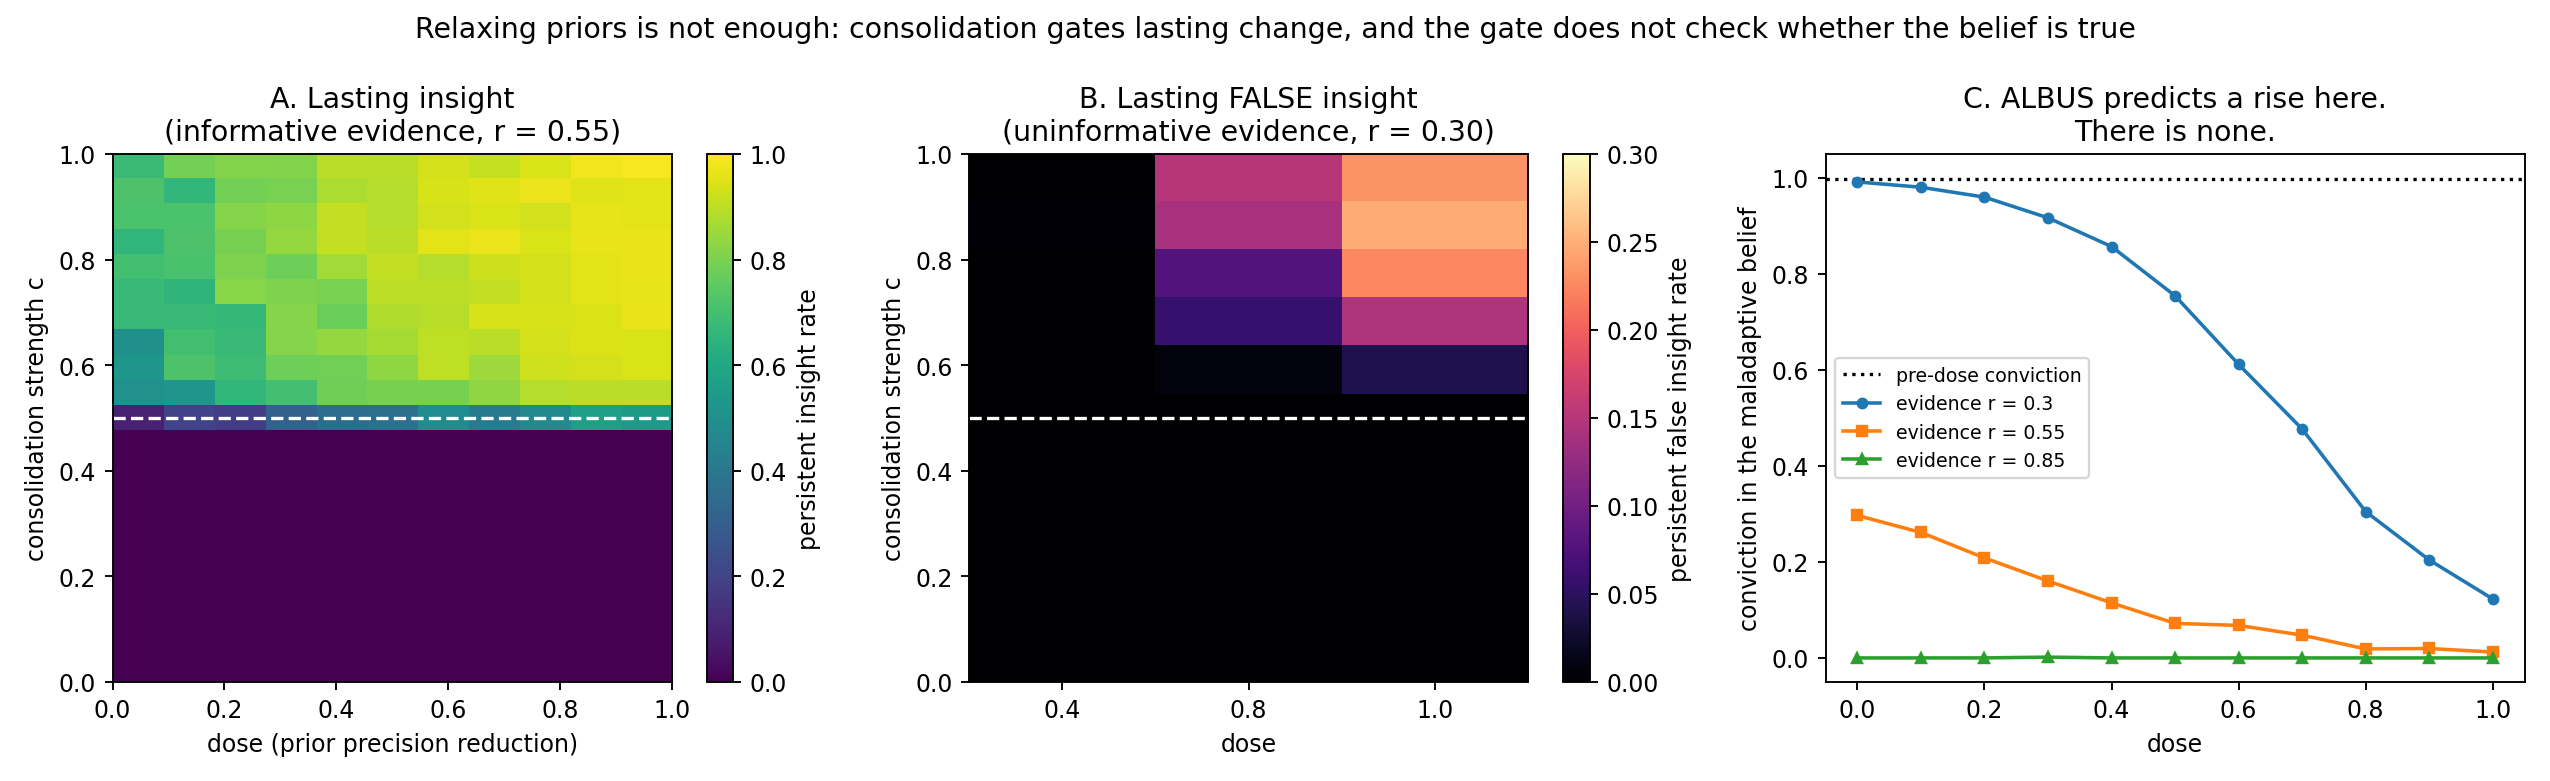
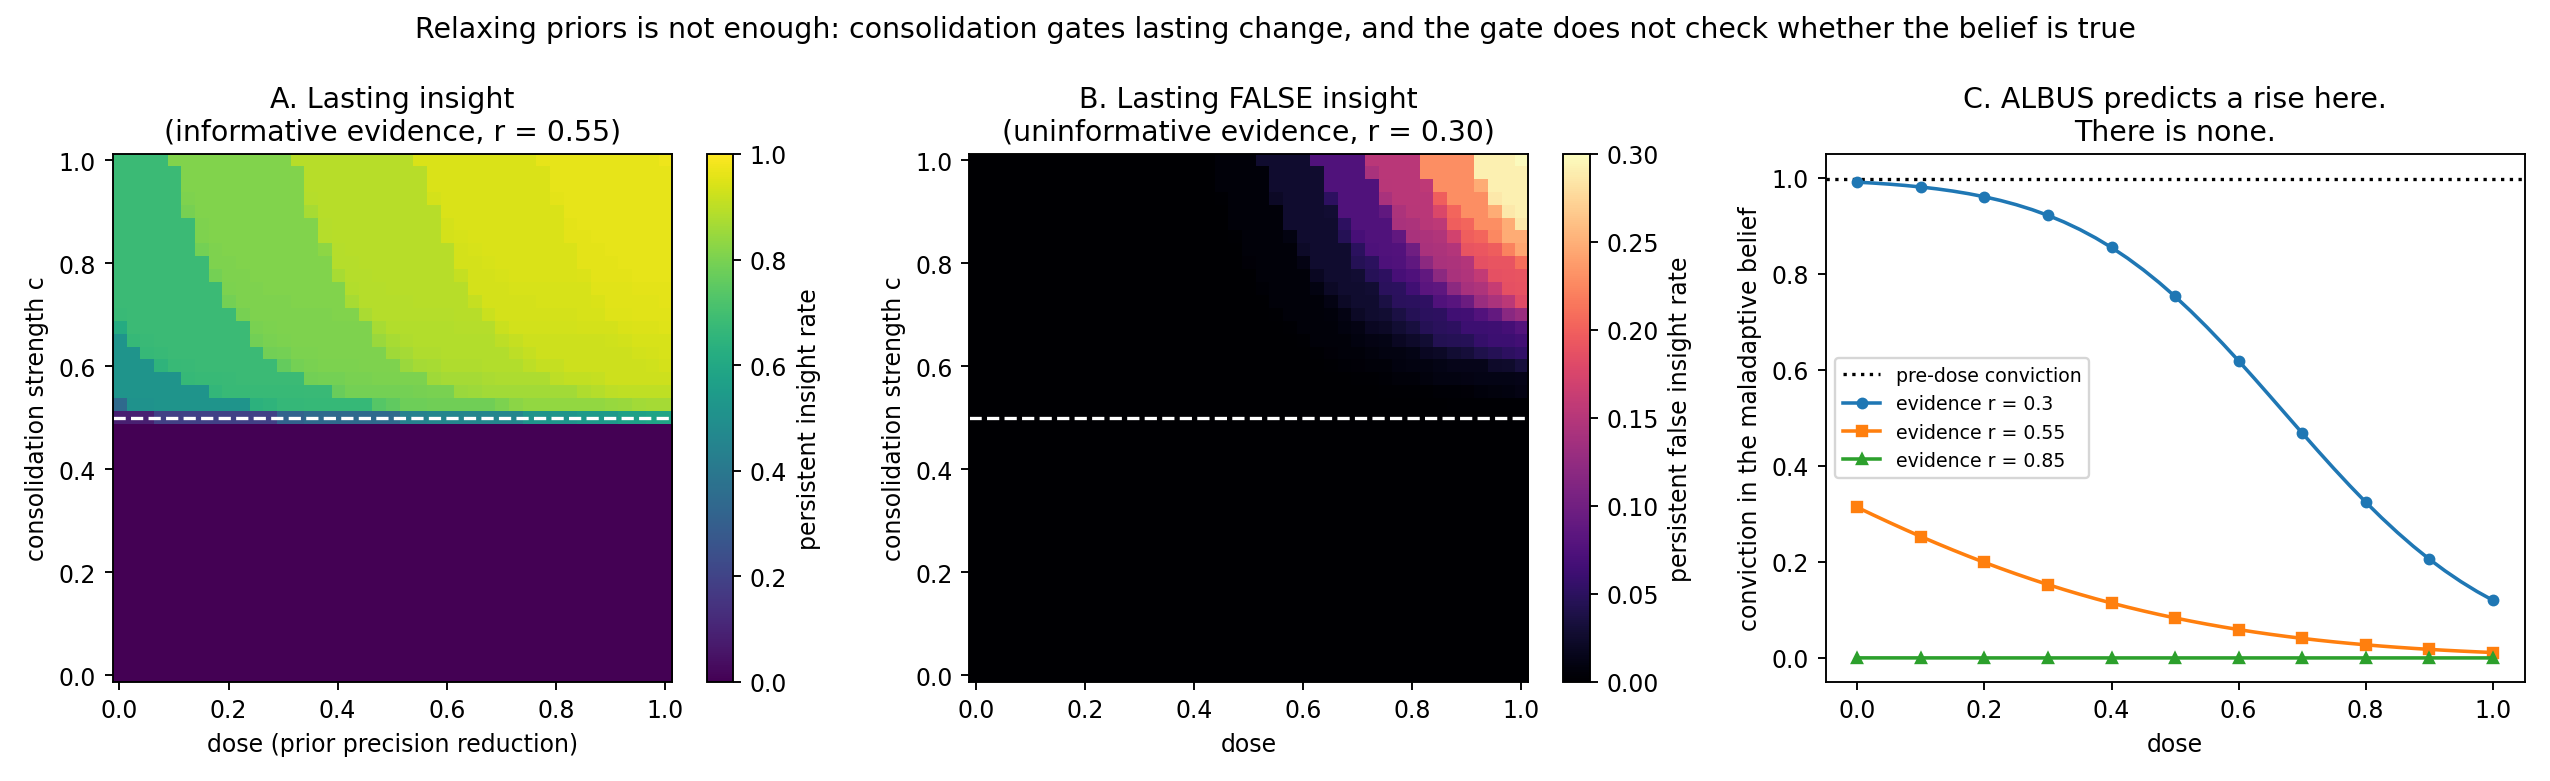
Fix figure_main: dense 41x41 recompute so panel B gets a true continuous dose axis; cell-center extents

diff --git a/dense_grids.py b/dense_grids.py
@@ -1,0 +1,104 @@
+"""Dense recompute of the figure_main panels. No new hypotheses, no new arms.
+
+This recomputes three quantities already declared and reported (predictions 6, 8, 3;
+see AMENDMENT_1.md and PREREGISTRATION.md) on a finer grid with more trials, so the
+poster figure can use a genuinely continuous dose axis instead of three categorical
+columns. The mechanism, mapping, and outcome definitions are byte-identical to
+consolidation.py; only resolution changes. Spot checks against the published coarse
+numbers are printed at the end and must agree within Monte Carlo error.
+
+Observation draws are shared across dose and consolidation within each block, so
+contrasts are paired, matching the design of robustness.py.
+"""
+
+import json
+import pathlib
+
+import numpy as np
+
+from model import GAMMA_0, K, MALADAPTIVE, TRUE, likelihood, prior_logits, softmax
+
+OUT = pathlib.Path(__file__).parent / "dense_grids.json"
+
+WINDOW = 12
+TRIALS = 20000
+DOSES = np.round(np.linspace(0, 1, 41), 4)
+CS = np.round(np.linspace(0, 1, 41), 4)
+
+
+def draw_counts(r, trials, rng):
+    """Multinomial observation counts per trial. cum_ll = counts @ log A."""
+    a = likelihood(r)
+    counts = rng.multinomial(WINDOW, a[:, TRUE], size=trials)
+    return counts @ np.log(a)
+
+
+def outcome_grid(cum_ll, which):
+    """Rate of `which` outcome after consolidation, over the dose x c grid."""
+    u = prior_logits()
+    p_orig = softmax(GAMMA_0 * u)
+    out = np.zeros((len(CS), len(DOSES)))
+    for j, d in enumerate(DOSES):
+        gamma_d = GAMMA_0 * (1.0 - d)
+        logits = gamma_d * u[None, :] + cum_ll
+        logits -= logits.max(axis=1, keepdims=True)
+        bw = np.exp(logits)
+        bw /= bw.sum(axis=1, keepdims=True)
+        for i, c in enumerate(CS):
+            p_after = (1.0 - c) * p_orig[None, :] + c * bw
+            m = p_after.argmax(axis=1)
+            if which == "insight":
+                out[i, j] = (m == TRUE).mean()
+            else:
+                out[i, j] = (m >= 2).mean()
+    return out
+
+
+def sebus_curves(rng):
+    """Mean conviction in the maladaptive belief at window end, per dose."""
+    u = prior_logits()
+    curves = {}
+    for r in (0.30, 0.55, 0.85):
+        cum_ll = draw_counts(r, TRIALS, rng)
+        ys = []
+        for d in DOSES:
+            gamma_d = GAMMA_0 * (1.0 - d)
+            logits = gamma_d * u[None, :] + cum_ll
+            logits -= logits.max(axis=1, keepdims=True)
+            bw = np.exp(logits)
+            bw /= bw.sum(axis=1, keepdims=True)
+            ys.append(float(bw[:, MALADAPTIVE].mean()))
+        curves[f"{r}"] = ys
+    return curves
+
+
+def main():
+    rng = np.random.default_rng(11)
+
+    insight = outcome_grid(draw_counts(0.55, TRIALS, rng), "insight")
+    false_g = outcome_grid(draw_counts(0.30, TRIALS, rng), "false_insight")
+    seb = sebus_curves(rng)
+    base = float(softmax(GAMMA_0 * prior_logits())[MALADAPTIVE])
+
+    OUT.write_text(json.dumps({
+        "doses": DOSES.tolist(), "cs": CS.tolist(), "trials": TRIALS,
+        "insight_r055": insight.tolist(),
+        "false_insight_r030": false_g.tolist(),
+        "sebus": {"baseline": base, "curves": seb},
+    }))
+    print(f"wrote {OUT.name}")
+
+    # Spot checks against published coarse numbers (400 to 600 trials there).
+    ci = {c: i for i, c in enumerate(CS)}
+    di = {d: j for j, d in enumerate(DOSES)}
+    print("\nspot checks (dense vs published):")
+    for c, d, pub in ((0.55, 0.0, 0.505), (0.55, 1.0, 0.895), (0.8, 0.8, 0.935)):
+        print(f"  insight  c={c} d={d}: {insight[ci[c], di[d]]:.3f} vs {pub}")
+    for c, d, pub in ((0.9, 1.0, 0.247), (0.7, 0.8, 0.058), (0.5, 1.0, 0.0)):
+        print(f"  false    c={c} d={d}: {false_g[ci[c], di[d]]:.3f} vs {pub}")
+    for d, r, pub in ((0.0, 0.55, 0.2968), (1.0, 0.30, 0.1229), (0.5, 0.55, 0.0720)):
+        print(f"  sebus    d={d} r={r}: {seb[f'{r}'][di[d]]:.4f} vs {pub}")
+
+
+if __name__ == "__main__":
+    main()

diff --git a/figure.py b/figure.py
@@ -1,4 +1,11 @@
-"""The poster figure: consolidation is a gate, dose is a gain, and the gate is blind."""
+"""The poster figure: consolidation is a gate, dose is a gain, and the gate is blind.
+
+Reads dense_grids.json (produced by dense_grids.py, a resolution-only recompute of
+the quantities in consolidation_results.json). Extents are set so tick values sit at
+cell centers, which fixes the panel B tick misalignment noted in RESULTS.md: that
+panel previously drew three unequally spaced doses as equal-width categorical
+columns on an axis that read as continuous.
+"""
 
 import json
 import pathlib
@@ -9,44 +16,33 @@ import matplotlib.pyplot as plt
 import numpy as np
 
 HERE = pathlib.Path(__file__).parent
-d = json.loads((HERE / "consolidation_results.json").read_text())
+d = json.loads((HERE / "dense_grids.json").read_text())
 
-CS = np.round(np.linspace(0, 1, 21), 3)
-DOSES = np.round(np.linspace(0, 1, 11), 3)
+DOSES = np.array(d["doses"])
+CS = np.array(d["cs"])
 
-
-def grid(block, key, doses, cs):
-    m = np.full((len(cs), len(doses)), np.nan)
-    for i, c in enumerate(cs):
-        for j, dd in enumerate(doses):
-            cell = d[block].get(f"{dd}|{c}")
-            if cell:
-                m[i, j] = cell[key]
-    return m
-
+# Cell-center alignment: N cells whose centers span [0, 1].
+half_d = (DOSES[1] - DOSES[0]) / 2
+half_c = (CS[1] - CS[0]) / 2
+EXTENT = [-half_d, 1 + half_d, -half_c, 1 + half_c]
 
 fig, axes = plt.subplots(1, 3, figsize=(15, 4.6))
 
 # Panel A: persistent insight, good evidence
-m = grid("dose_x_consolidation_r055", "insight", DOSES, CS)
+m = np.array(d["insight_r055"])
 im = axes[0].imshow(m, origin="lower", aspect="auto", cmap="viridis",
-                    vmin=0, vmax=1, extent=[0, 1, 0, 1])
+                    vmin=0, vmax=1, extent=EXTENT)
 axes[0].axhline(0.5, color="w", ls="--", lw=1.4)
 axes[0].set_title("A. Lasting insight\n(informative evidence, r = 0.55)")
 axes[0].set_xlabel("dose (prior precision reduction)")
 axes[0].set_ylabel("consolidation strength c")
 fig.colorbar(im, ax=axes[0], label="persistent insight rate")
 
-# Panel B: persistent false insight, poor evidence
-cs2 = CS[::2]
-doses2 = np.array([0.4, 0.8, 1.0])
-m2 = grid("false_insight_r030", "false_insight", doses2, cs2)
+# Panel B: persistent false insight, poor evidence, same continuous axes as A
+m2 = np.array(d["false_insight_r030"])
 im2 = axes[1].imshow(m2, origin="lower", aspect="auto", cmap="magma",
-                     vmin=0, vmax=0.3,
-                     extent=[0, len(doses2), 0, 1])
+                     vmin=0, vmax=0.3, extent=EXTENT)
 axes[1].axhline(0.5, color="w", ls="--", lw=1.4)
-axes[1].set_xticks(np.arange(len(doses2)) + 0.5)
-axes[1].set_xticklabels([f"{x:.1f}" for x in doses2])
 axes[1].set_title("B. Lasting FALSE insight\n(uninformative evidence, r = 0.30)")
 axes[1].set_xlabel("dose")
 axes[1].set_ylabel("consolidation strength c")
@@ -56,9 +52,9 @@ fig.colorbar(im2, ax=axes[1], label="persistent false insight rate")
 seb = d["sebus"]
 axes[2].axhline(seb["baseline"], color="k", ls=":", lw=1.4,
                 label="pre-dose conviction")
-for r, style in ((0.30, "-o"), (0.55, "-s"), (0.85, "-^")):
-    ys = [seb["grid"][f"{dd}|{r}"] for dd in DOSES]
-    axes[2].plot(DOSES, ys, style, ms=4, label=f"evidence r = {r}")
+for r, style in ((0.3, "-o"), (0.55, "-s"), (0.85, "-^")):
+    axes[2].plot(DOSES, seb["curves"][f"{r}"], style, ms=4, markevery=4,
+                 label=f"evidence r = {r}")
 axes[2].set_title("C. ALBUS predicts a rise here.\nThere is none.")
 axes[2].set_xlabel("dose")
 axes[2].set_ylabel("conviction in the maladaptive belief")

diff --git a/SESSION_LOG.md b/SESSION_LOG.md
@@ -1,0 +1,23 @@
+# Session log
+
+## 2026-08-10 (Track C session)
+
+Work this session, newest first. Poster abstract deadline is Sunday 2026-08-16.
+
+### Figure fixes
+
+- **dense_grids.py / dense_grids.json**: resolution-only recompute of the three
+  figure_main quantities (predictions 6, 8, 3) at 41 doses x 41 consolidation levels x
+  20,000 paired trials. No new hypotheses, no new arms, mechanism byte-identical to
+  consolidation.py; spot checks against the published coarse numbers printed by the
+  script and all agree within Monte Carlo error. Done so panel B could carry a genuine
+  continuous dose axis instead of three equal-width categorical columns (the "misaligned
+  ticks" issue in RESULTS.md).
+- **figure.py**: reads dense_grids.json; extents set so tick values sit at cell centers
+  in both heatmap panels.
+
+### Abstract
+
+- POSTER_ABSTRACT.md rewritten (draft 4) in the outer Consciousness_Berkeley repo:
+  REBUS/ALBUS lead, gwbench supporting, built on the settled thesis. Josh sends; BCSP
+  requirements still unconfirmed (inquiry email drafted, send status unknown).
